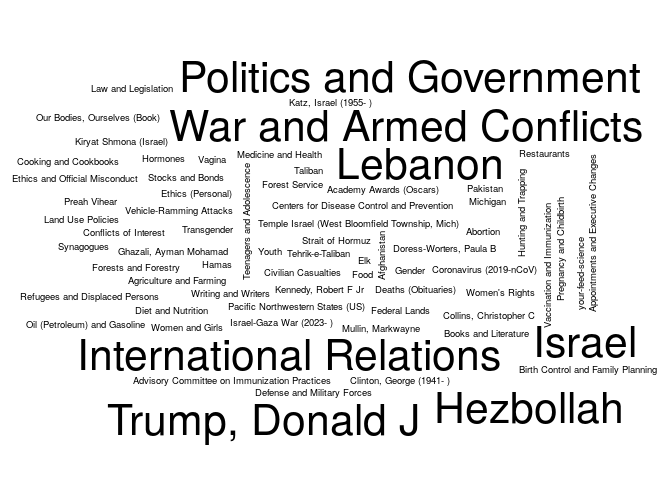
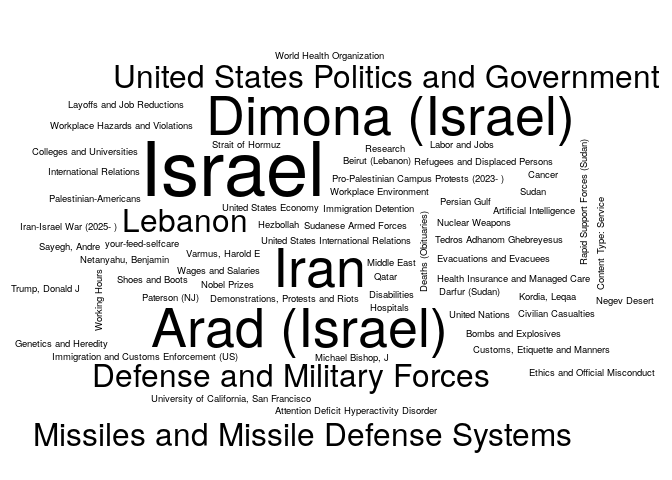
Updating the NYT report

Changed region(s): [[0.0, 0.0938, 1.0, 0.9375]]

diff --git a/03-nytimes/README.md b/03-nytimes/README.md
@@ -5,7 +5,7 @@ The following is an example of how to use the [NYTimes
 API](https://developer.nytimes.com/) to get a list of articles related
 to a particular term. Here we are searching articles that include the
 term `"health"`, and that were published up to seven days ago since
-2026-03-16.
+2026-03-23.
 
 ``` r
 # Preparing a function to use the GET method with the NYTimes API
@@ -83,25 +83,25 @@ colnames(tab) <- c("Keyword", "# Articles")
 knitr::kable(tab, row.names = FALSE)
 ```
 
-| Keyword                                      | \# Articles |
-|:---------------------------------------------|------------:|
-| US and Israeli Attack on Iran (2026)         |          15 |
-| Hezbollah                                    |          10 |
-| International Relations                      |          10 |
-| Israel                                       |          10 |
-| Lebanon                                      |          10 |
-| Politics and Government                      |          10 |
-| Trump, Donald J                              |          10 |
-| United States Politics and Government        |          10 |
-| War and Armed Conflicts                      |          10 |
-| Abortion                                     |           5 |
-| Academy Awards (Oscars)                      |           5 |
-| Advisory Committee on Immunization Practices |           5 |
-| Afghanistan                                  |           5 |
-| Agriculture and Farming                      |           5 |
-| Appointments and Executive Changes           |           5 |
-| Birth Control and Family Planning            |           5 |
-| Books and Literature                         |           5 |
-| Centers for Disease Control and Prevention   |           5 |
-| Civilian Casualties                          |           5 |
-| Clinton, George (1941- )                     |           5 |
+| Keyword                                  | \# Articles |
+|:-----------------------------------------|------------:|
+| Israel                                   |          20 |
+| US and Israeli Attack on Iran (2026)     |          20 |
+| Arad (Israel)                            |          15 |
+| Dimona (Israel)                          |          15 |
+| Iran                                     |          15 |
+| War and Armed Conflicts                  |          15 |
+| Defense and Military Forces              |          10 |
+| Lebanon                                  |          10 |
+| Missiles and Missile Defense Systems     |          10 |
+| United States Politics and Government    |          10 |
+| Artificial Intelligence                  |           5 |
+| Attention Deficit Hyperactivity Disorder |           5 |
+| Beirut (Lebanon)                         |           5 |
+| Bombs and Explosives                     |           5 |
+| Cancer                                   |           5 |
+| Civilian Casualties                      |           5 |
+| Colleges and Universities                |           5 |
+| Content Type: Service                    |           5 |
+| Customs, Etiquette and Manners           |           5 |
+| Darfur (Sudan)                           |           5 |
